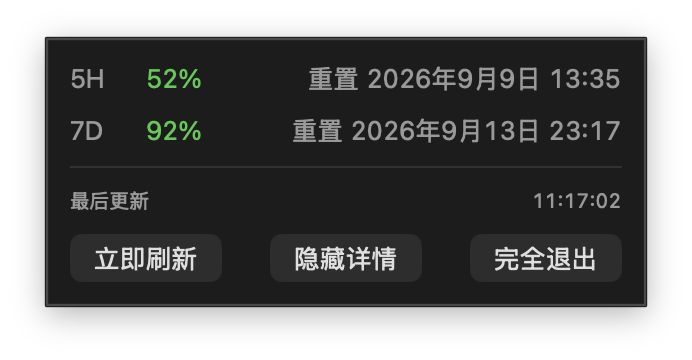
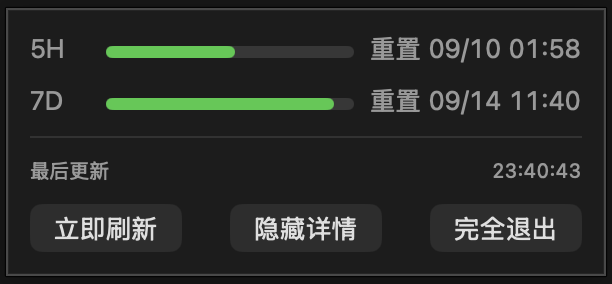
docs: update quota detail screenshot

diff --git a/README.en.md b/README.en.md
@@ -15,6 +15,10 @@ A quiet, lightweight macOS menu-bar app for checking your remaining Codex 5-hour
 7D 92%
 ```
 
+Click the menu-bar quota to see colored progress bars, reset times, and the last update:
+
+![Codex Quota Badge detail panel](assets/screenshots/detail-preview.png)
+
 Codex Quota Badge does one job: it keeps the quota information you check most often in the menu bar, so you do not have to keep opening a usage page.
 
 > This is an open-source preview. Until a public release is prepared, local packages use ad-hoc signing and are not Apple-notarized. Security prompts may vary between Macs.

diff --git a/README.md b/README.md
@@ -15,6 +15,10 @@
 7D 92%
 ```
 
+点击菜单栏配额即可查看彩色进度条、重置时间和最后更新时间：
+
+![Codex Quota Badge 详情窗口](assets/screenshots/detail-preview.png)
+
 Codex Quota Badge 专注做好一件事：把最常查看的配额信息放在菜单栏，减少反复打开用量页面带来的打断。
 
 > 当前为开源预览版。正式公开下载前，安装包仍使用本地临时签名，尚未经过 Apple 公证；不同 Mac 的安全提示可能不同。
